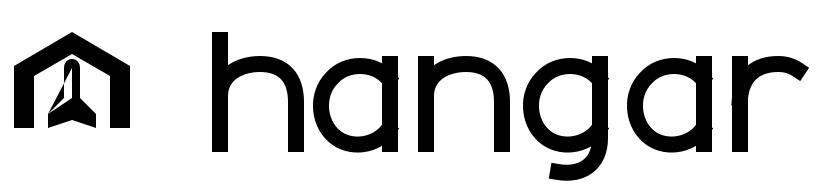
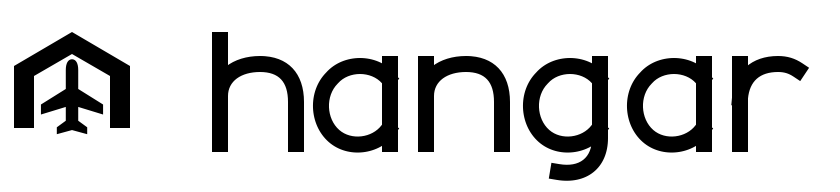
Give the mono lockup the aircraft the colour one already has
Its plane was redrawn small by hand: one wing, a lopsided fuselage, and a
subpath that never closed. It now uses the colour mark's own geometry, scaled by
the two arch bounding boxes. make wordmark re-renders the @2x fallbacks and the
manifest, so the kit stays reproducible from its SVGs.

Changed region(s): [[0.031, 0.3125, 0.1238, 0.6875]]

diff --git a/scripts/render-wordmark.swift b/scripts/render-wordmark.swift
@@ -1,0 +1,65 @@
+#!/usr/bin/env swift
+// Rasterises the wordmark lockups into their @2x PNG fallbacks, so the PNGs in
+// the brand kit stay reproducible from the SVGs beside them rather than being
+// artifacts nobody can rebuild.
+//
+// Usage: swift scripts/render-wordmark.swift <wordmark-dir>
+
+import AppKit
+
+let arguments = CommandLine.arguments
+guard arguments.count > 1 else {
+    FileHandle.standardError.write(Data("usage: render-wordmark.swift <wordmark-dir>\n".utf8))
+    exit(2)
+}
+let root = URL(fileURLWithPath: arguments[1])
+
+/// The lockup is 420x96 in user units; the kit ships it at 2x.
+let scale = 2
+let width = 420 * scale
+let height = 96 * scale
+
+func render(_ svg: URL, to png: URL) throws {
+    let data = try Data(contentsOf: svg)
+    guard let image = NSImage(data: data) else {
+        throw NSError(domain: "wordmark", code: 1,
+                      userInfo: [NSLocalizedDescriptionKey: "could not read \(svg.lastPathComponent)"])
+    }
+    // An explicit sRGB bitmap at exactly the requested pixel size, with alpha.
+    // Drawing into an NSImage instead picks up the display's backing scale, and
+    // these are template marks: the background has to stay transparent.
+    guard let bitmap = NSBitmapImageRep(
+        bitmapDataPlanes: nil, pixelsWide: width, pixelsHigh: height,
+        bitsPerSample: 8, samplesPerPixel: 4, hasAlpha: true, isPlanar: false,
+        colorSpaceName: .deviceRGB, bytesPerRow: 0, bitsPerPixel: 0) else {
+        throw NSError(domain: "wordmark", code: 2,
+                      userInfo: [NSLocalizedDescriptionKey: "could not make a bitmap"])
+    }
+    bitmap.size = NSSize(width: width, height: height)
+    guard let context = NSGraphicsContext(bitmapImageRep: bitmap) else {
+        throw NSError(domain: "wordmark", code: 3,
+                      userInfo: [NSLocalizedDescriptionKey: "could not make a context"])
+    }
+    NSGraphicsContext.saveGraphicsState()
+    NSGraphicsContext.current = context
+    NSColor.clear.setFill()
+    NSRect(x: 0, y: 0, width: width, height: height).fill()
+    image.draw(in: NSRect(x: 0, y: 0, width: width, height: height),
+               from: .zero, operation: .sourceOver, fraction: 1)
+    NSGraphicsContext.restoreGraphicsState()
+
+    guard let out = bitmap.representation(using: .png, properties: [:]) else {
+        throw NSError(domain: "wordmark", code: 4,
+                      userInfo: [NSLocalizedDescriptionKey: "could not encode a PNG"])
+    }
+    try out.write(to: png)
+    print("  \(png.lastPathComponent)  \(width)x\(height)")
+}
+
+let names = ["hangar-wordmark-light", "hangar-wordmark-dark",
+             "hangar-wordmark-mono-black", "hangar-wordmark-mono-white"]
+for name in names {
+    let svg = root.appendingPathComponent("\(name).svg")
+    guard FileManager.default.fileExists(atPath: svg.path) else { continue }
+    try render(svg, to: root.appendingPathComponent("\(name)@2x.png"))
+}

diff --git a/CLAUDE.md b/CLAUDE.md
@@ -152,7 +152,14 @@ Kept because each one cost real debugging and would be easy to reintroduce.
     menu disagreed about how deep the same fleet went, and 89 hosts on a real
     fleet sat behind a circle that said nothing. When a second thing answers a
     question the first already answers, it has to call the first one.
-19. **An external process with no deadline.** `credential_process` is the user's
+19. **A mono variant hand-simplified away from its source.** The wordmark ships
+    in colour and in a single-colour version, and the mono one had its aircraft
+    redrawn small by hand: one wing, a lopsided fuselage, and a subpath that
+    never closed. It read as a smudge inside the arch at every size. A mono
+    variant is the same drawing without colour, so its geometry comes from the
+    primary asset, scaled. `make wordmark` re-renders the raster fallbacks and
+    the manifest from the SVGs, so this stays checkable.
+20. **An external process with no deadline.** `credential_process` is the user's
     own command, and `readDataToEndOfFile` waits for the pipe to close, which a
     helper that hangs never does. The fleet refreshed forever and the setup
     window sat blank. Every process Hangar runs gets a deadline and a kill.
